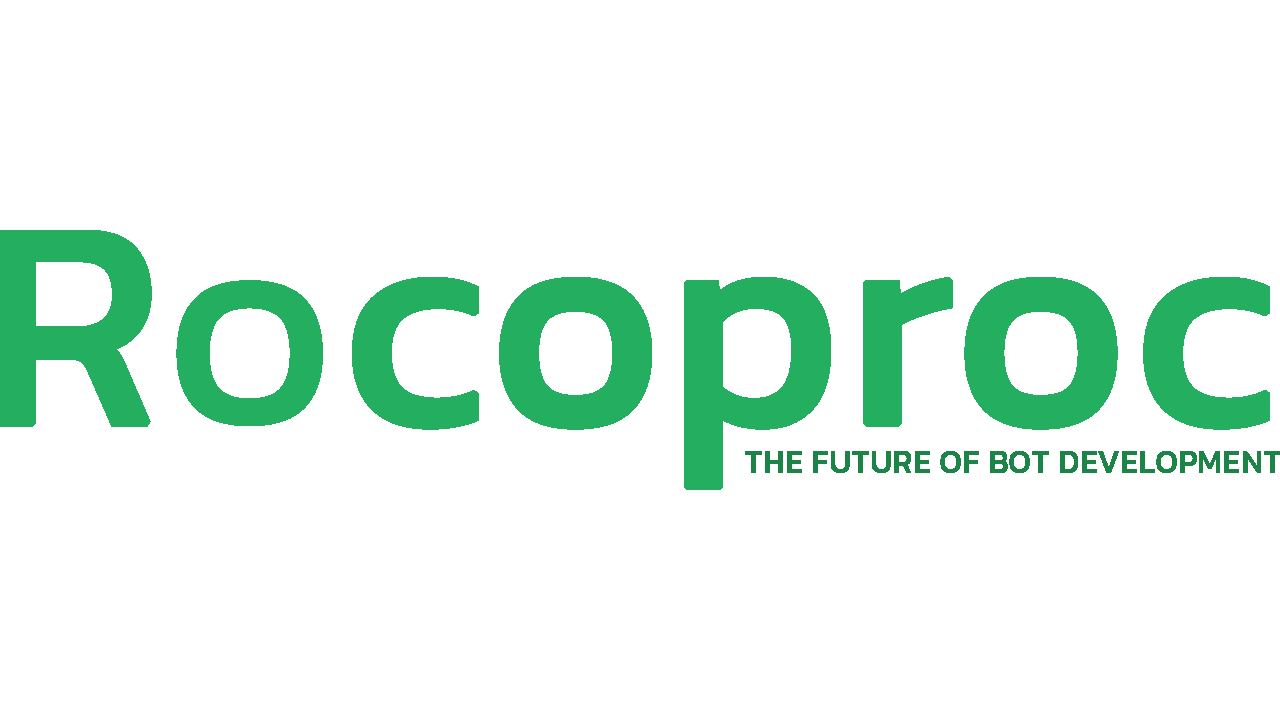
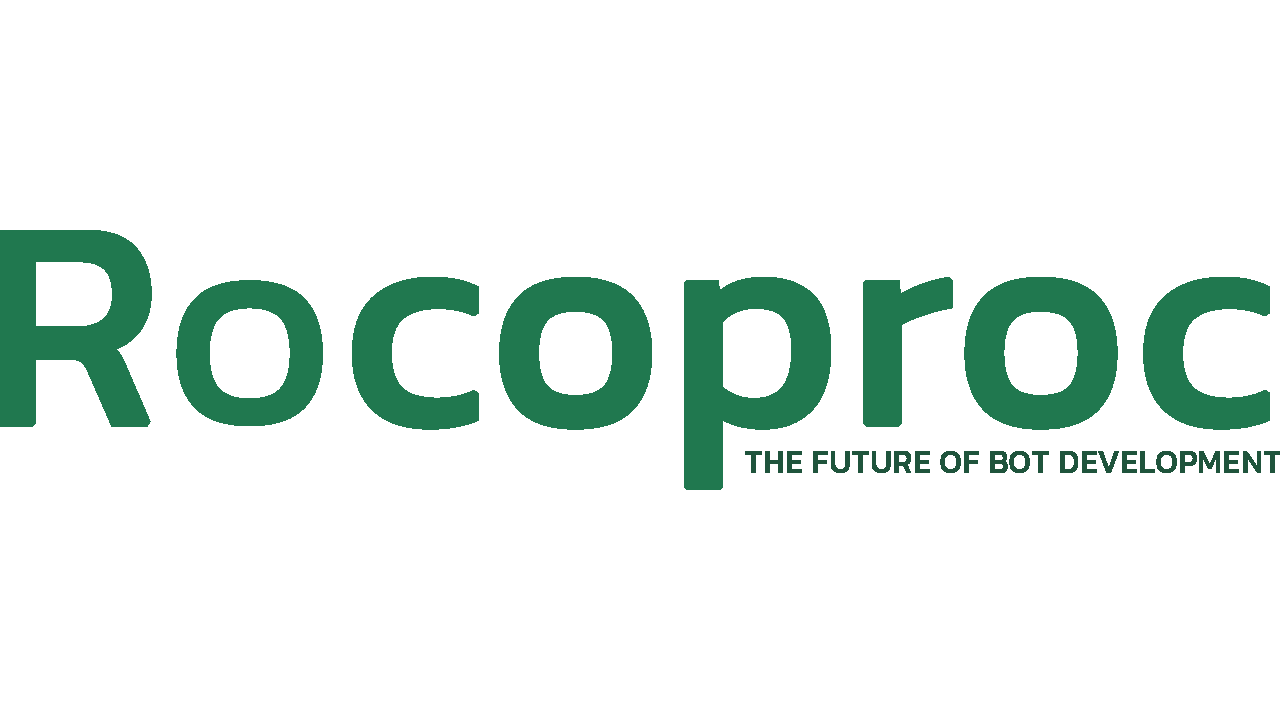
Add files via upload

Changed region(s): [[0.0, 0.3056, 1.0, 0.7028]]

diff --git a/style.css b/style.css
@@ -58,7 +58,7 @@ body {
   font-size: 15px;
   font-family: 'Kanit', sans-serif;
   color: white;
-  background-color: #24AE60;
+  background-color: #20784F;
   border-radius: 5px;
   cursor: pointer;
   transition: background-color 0.3s;
@@ -66,5 +66,5 @@ body {
 }
 
 .button:hover {
-  background-color: #1C8447;
+  background-color: #1F543C;
 }
